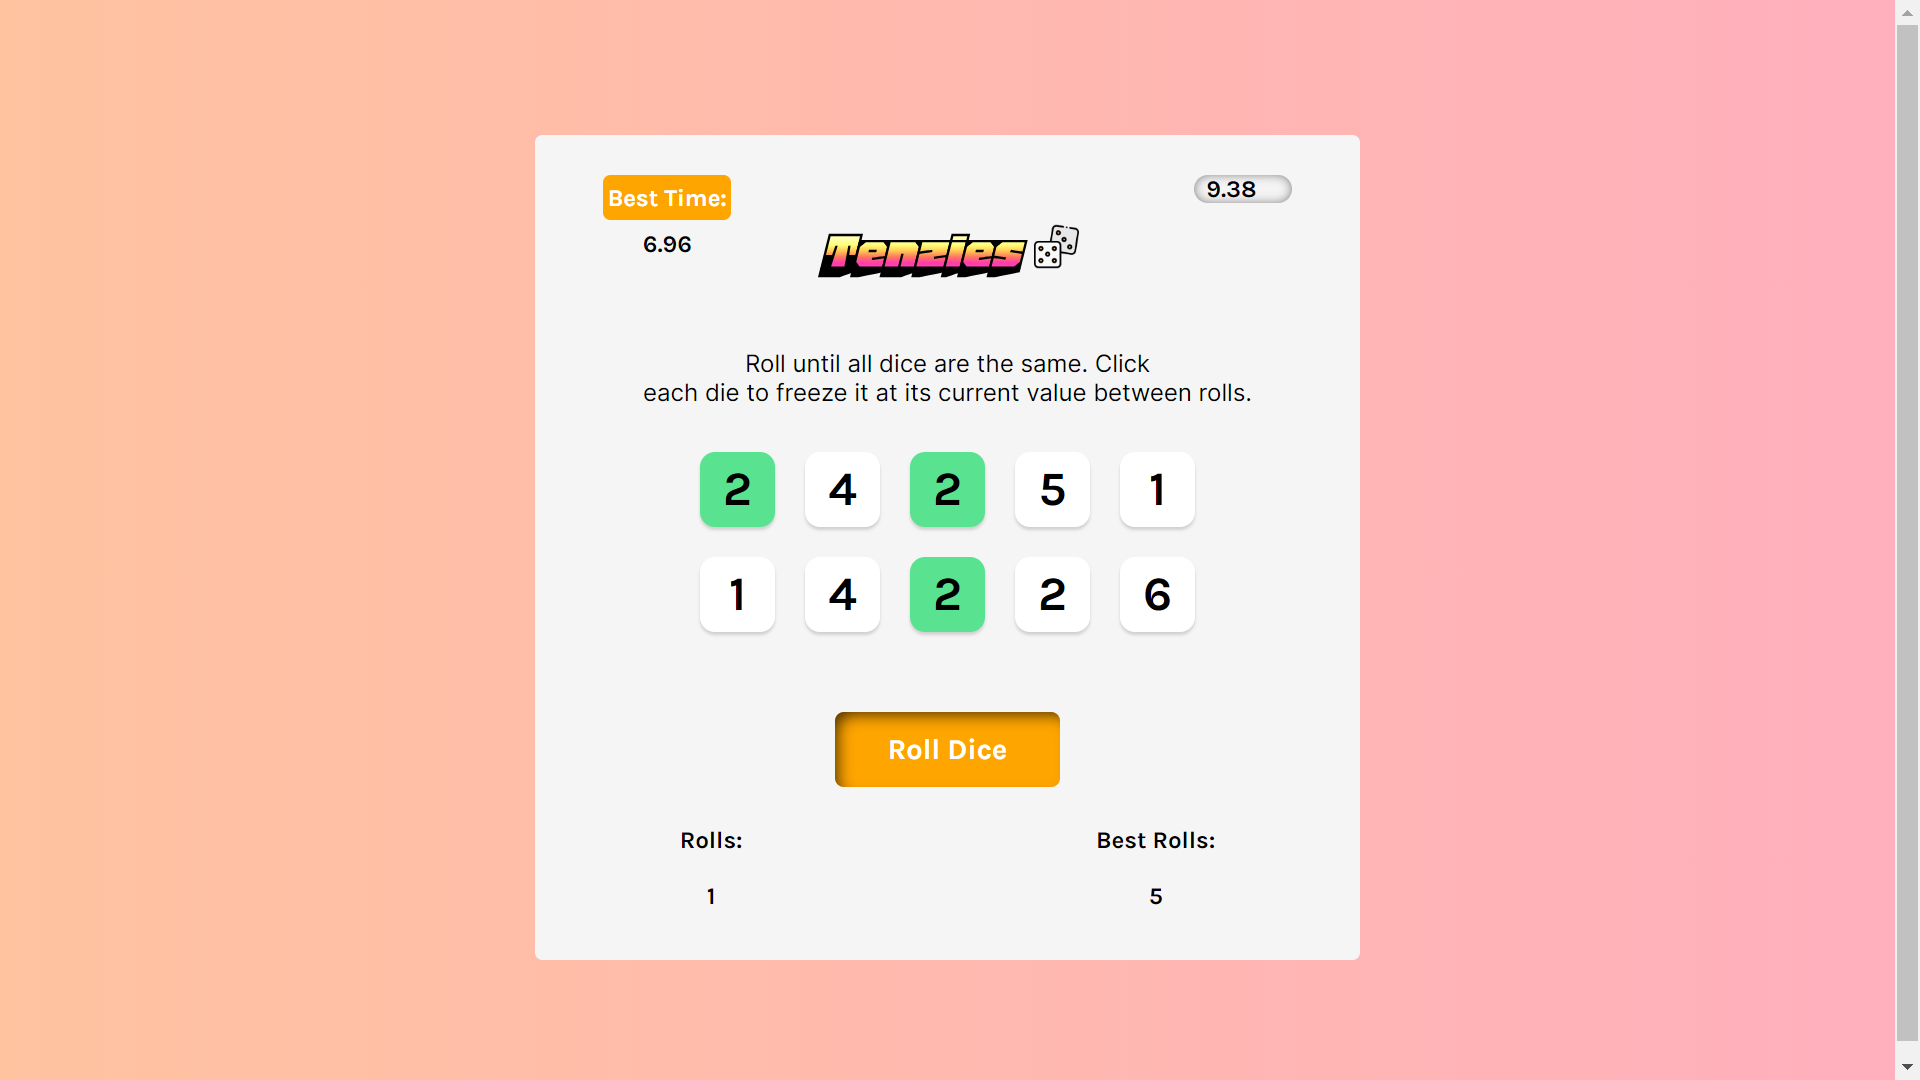
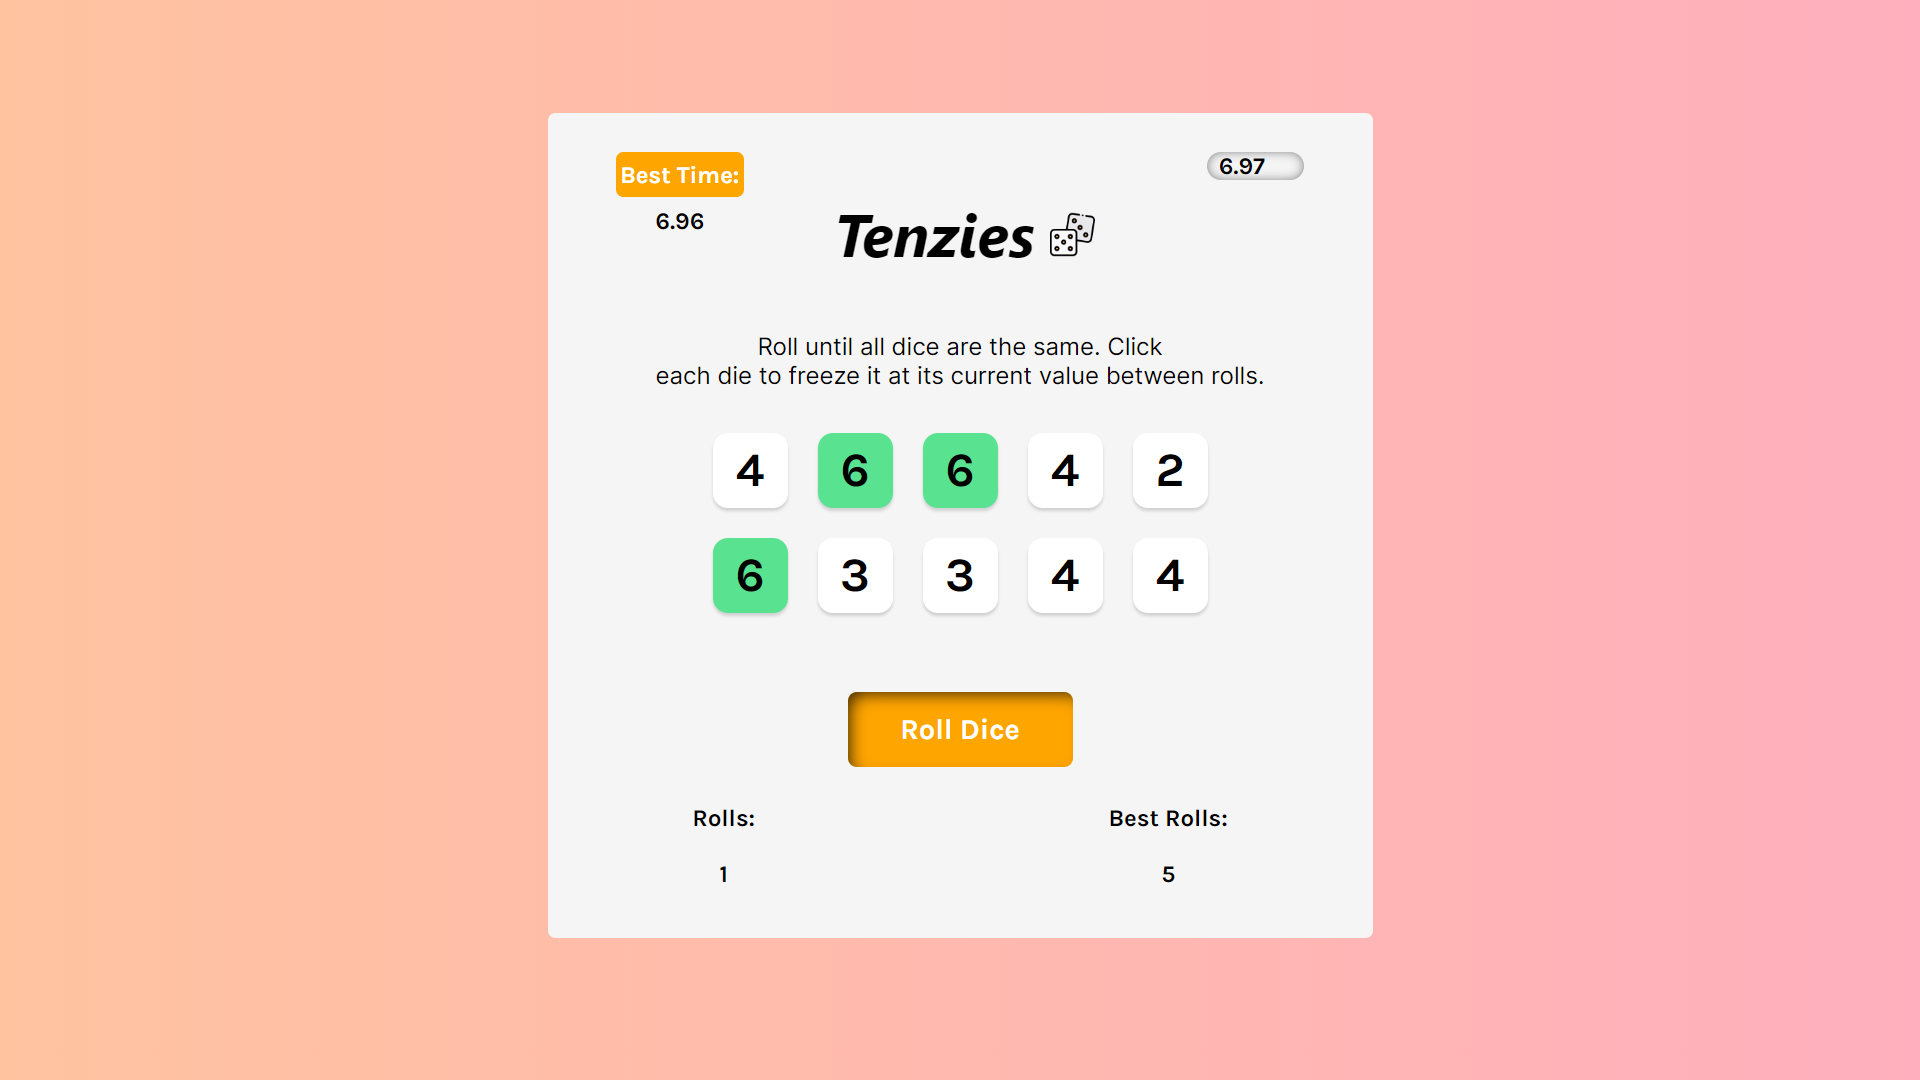
fix timer bug

diff --git a/index.html b/index.html
@@ -6,9 +6,6 @@
     <link rel="icon" type="image/svg+xml" href="/diceIcon.png" />
     <link rel="preconnect" href="https://fonts.googleapis.com" />
     <link rel="preconnect" href="https://fonts.gstatic.com" crossorigin />
-    <link 
-    href="https://fonts.googleapis.com/css2?family=Honk&display=swap" 
-    rel="stylesheet">
     <link
       href="https://fonts.googleapis.com/css2?family=Inter&family=Karla:wght@700&display=swap"
       rel="stylesheet"

diff --git a/src/App.jsx b/src/App.jsx
@@ -81,6 +81,10 @@ function App() {
   // setDice(newDice);
   function rollDice() {
     if (!tenzies) {
+      if (totalRolls === 0) {
+        setSeconds(0); // Reset seconds on the first roll of a new game
+        setTimerActive(true);
+      }
       setDice((oldDice) =>
         oldDice.map((die) => {
           return die.isHeld ? die : generateNewDie();

diff --git a/src/App.css b/src/App.css
@@ -2,7 +2,7 @@ main {
   max-width: 550px;
   height: 550px;
   background-color: #f5f5f5;
-  margin: 5px auto;
+  margin: 10px auto;
   padding: 20px;
   border-radius: 5px;
   display: flex;

diff --git a/README.md b/README.md
@@ -14,6 +14,7 @@ Tenzies is a fun, interactive dice game built with React and powered by Vite for
 
 ![Tenzies New Game Screenshot](/src/assets/newGame.png)
 ![Tenzies Active Game Screenshot](/src/assets/activeGame.png)
+![Tenzies Active Game Screenshot](/src/assets/winGame.png)
 
 This screenshot gives you a glimpse of the Tenzies game in action, showcasing the interactive dice and the game's UI.
 
